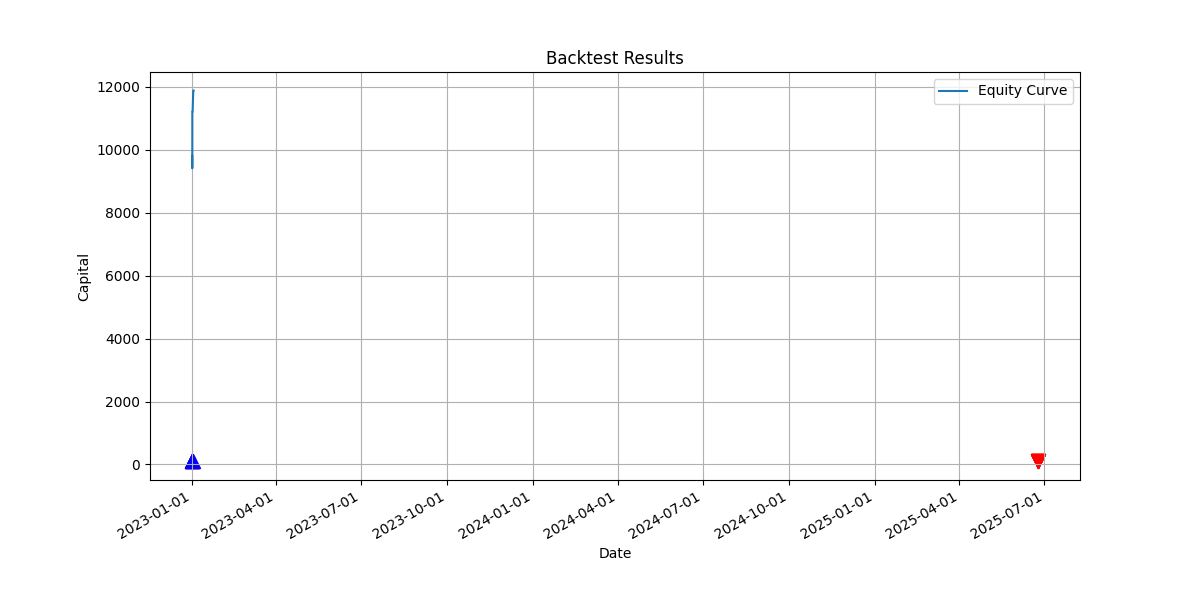
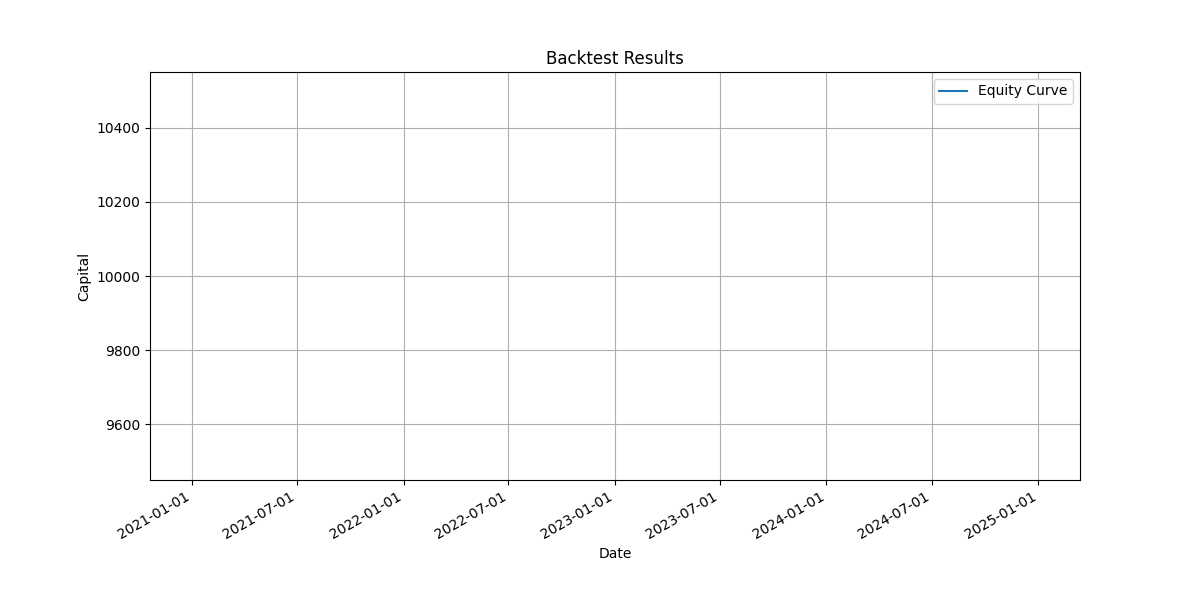
Реализована загрузка исторических данных из CSV для бэктестинга
- Добавлена функция для чтения и фильтрации данных из CSV-файла в src/backtest.py.
- Обновлена логика бэктестера для использования CSV-данных при указании соответствующего параметра командной строки (--data-csv).
- Включен пример CSV-файла (data/historical_data.csv).
- Обновлена документация (docs/usage_guide.md) с описанием новой функциональности.
- Проведено тестирование, подтверждающее корректную работу загрузки из CSV.

diff --git a/src/backtest.py b/src/backtest.py
@@ -68,8 +68,13 @@ class MacroBacktester:
         
         try:
             # Загрузка исторических данных
-            # historical_data = await self._load_historical_data(symbol, start_date, end_date) # Закомментировано для использования заглушки
-            historical_data = self._get_mock_historical_data(start_date, end_date)
+            if self.config.get("data_csv_path"):
+                historical_data = self._load_historical_data_from_csv(
+                    self.config["data_csv_path"], start_date, end_date
+                )
+            else:
+                # historical_data = await self._load_historical_data(symbol, start_date, end_date) # Закомментировано для использования заглушки
+                historical_data = self._get_mock_historical_data(start_date, end_date)
 
 
             if not historical_data:
@@ -79,7 +84,11 @@ class MacroBacktester:
                     "message": "Failed to load historical data"
                 }
 
-            self.logger.info(f"Loaded {len(historical_data)} historical data points (mocked)")
+            if self.config.get("data_csv_path"):
+                self.logger.info(f"Loaded {len(historical_data)} data points from CSV path: {self.config.get('data_csv_path')}")
+            else:
+                self.logger.info(f"Loaded {len(historical_data)} historical data points (mocked)")
+
 
             # Начальный капитал
             current_capital = initial_capital
@@ -241,6 +250,52 @@ class MacroBacktester:
         self.logger.info(f"Generated {len(data)} mock data points.")
         return data
 
+    def _load_historical_data_from_csv(self, csv_path: str, start_date_str: str, end_date_str: str) -> List[Dict]:
+        """
+        Загрузка исторических данных из CSV-файла.
+        Фильтрует данные по указанному диапазону дат.
+        Ожидаемые колонки: timestamp, open, high, low, close, volume
+        """
+        self.logger.info(f"Loading historical data from CSV: {csv_path}")
+        try:
+            df = pd.read_csv(csv_path)
+
+            # Преобразование timestamp в datetime для фильтрации
+            df['datetime'] = pd.to_datetime(df['timestamp'], unit='ms')
+
+            start_dt = datetime.datetime.strptime(start_date_str, '%Y-%m-%d')
+            # Для end_date берем конец дня, чтобы включить все свечи этого дня
+            end_dt = datetime.datetime.strptime(end_date_str, '%Y-%m-%d').replace(hour=23, minute=59, second=59, microsecond=999999)
+
+            # Фильтрация по дате
+            df_filtered = df[(df['datetime'] >= start_dt) & (df['datetime'] <= end_dt)]
+
+            if df_filtered.empty:
+                self.logger.warning(f"No data found in CSV for the period {start_date_str} - {end_date_str}")
+                return []
+
+            # Преобразование DataFrame обратно в список словарей
+            # Убедимся, что все необходимые колонки имеют правильный тип
+            df_filtered = df_filtered[['timestamp', 'open', 'high', 'low', 'close', 'volume']].astype({
+                'timestamp': 'int64', # Убедимся, что timestamp - это int
+                'open': 'float',
+                'high': 'float',
+                'low': 'float',
+                'close': 'float',
+                'volume': 'float'
+            })
+
+            historical_data = df_filtered.to_dict('records')
+            self.logger.info(f"Loaded {len(historical_data)} data points from CSV for the specified period.")
+            return historical_data
+
+        except FileNotFoundError:
+            self.logger.error(f"CSV file not found: {csv_path}")
+            return []
+        except Exception as e:
+            self.logger.error(f"Error loading data from CSV {csv_path}: {str(e)}")
+            return []
+
     # Закомментировал оригинальную функцию _load_historical_data
     # async def _load_historical_data(self, symbol: str, start_date: str, end_date: str) -> List[Dict]:
     #     """
@@ -250,7 +305,7 @@ class MacroBacktester:
     #         symbol: Торговая пара
     #         start_date: Начальная дата
     #         end_date: Конечная дата
-            
+
     #     Returns:
     #         List[Dict]: Исторические данные
     #     """
@@ -258,11 +313,11 @@ class MacroBacktester:
     #         # Преобразование дат в timestamp
     #         start_timestamp = int(datetime.datetime.strptime(start_date, '%Y-%m-%d').timestamp() * 1000)
     #         end_timestamp = int(datetime.datetime.strptime(end_date, '%Y-%m-%d').timestamp() * 1000)
-            
+
     #         # Загрузка данных по частям (максимум 1000 свечей за раз)
     #         all_candles = []
     #         current_timestamp = start_timestamp
-            
+
     #         while current_timestamp < end_timestamp:
     #             # Загрузка свечей
     #             candles = await self.exchange.get_candles(
@@ -1101,7 +1156,7 @@ class MacroBacktester:
         else:
             plt.show()
 
-async def run_backtest(symbol: str, start_date: str, end_date: str, config_path: str = None):
+async def run_backtest(symbol: str, start_date: str, end_date: str, config_path: str = None, data_csv_path: str = None):
     """
     Запуск бэктеста из командной строки.
     
@@ -1110,6 +1165,7 @@ async def run_backtest(symbol: str, start_date: str, end_date: str, config_path:
         start_date: Начальная дата
         end_date: Конечная дата
         config_path: Путь к конфигурационному файлу
+        data_csv_path: Путь к CSV файлу с историческими данными (опционально)
     """
     # Загрузка конфигурации
     if config_path:
@@ -1129,6 +1185,10 @@ async def run_backtest(symbol: str, start_date: str, end_date: str, config_path:
             "logging_level": "INFO"
         }
     
+    # Если указан путь к CSV, добавляем его в конфигурацию
+    if data_csv_path:
+        config["data_csv_path"] = data_csv_path
+
     try:
         # Создание и запуск бэктестера
         backtester = MacroBacktester(config)
@@ -1161,7 +1221,8 @@ if __name__ == "__main__":
     parser.add_argument('--start', type=str, required=True, help='Start date (YYYY-MM-DD)')
     parser.add_argument('--end', type=str, required=True, help='End date (YYYY-MM-DD)')
     parser.add_argument('--config', type=str, help='Path to config file')
+    parser.add_argument('--data-csv', type=str, help='Path to CSV file with historical data')
     
     args = parser.parse_args()
     
-    asyncio.run(run_backtest(args.symbol, args.start, args.end, args.config))
+    asyncio.run(run_backtest(args.symbol, args.start, args.end, args.config, data_csv_path=args.data_csv))

diff --git a/docs/usage_guide.md b/docs/usage_guide.md
@@ -66,6 +66,12 @@ python -m src.backtest --symbol BTCUSDT --start 2023-01-01 --end 2023-06-01
 - `--start`: Начальная дата (формат: YYYY-MM-DD)
 - `--end`: Конечная дата (формат: YYYY-MM-DD)
 - `--config`: (опционально) Путь к конфигурационному файлу
+- `--data-csv`: (опционально) Путь к CSV-файлу с историческими данными. Если указан, данные будут загружаться из этого файла вместо обращения к API биржи. Формат CSV должен содержать колонки: `timestamp` (Unix timestamp в миллисекундах), `open`, `high`, `low`, `close`, `volume`.
+
+Пример использования с CSV:
+```bash
+python -m src.backtest --symbol BTCUSDT --start 2023-01-01 --end 2023-01-31 --data-csv data/my_btc_data.csv
+```
 
 ## Структура проекта
 
